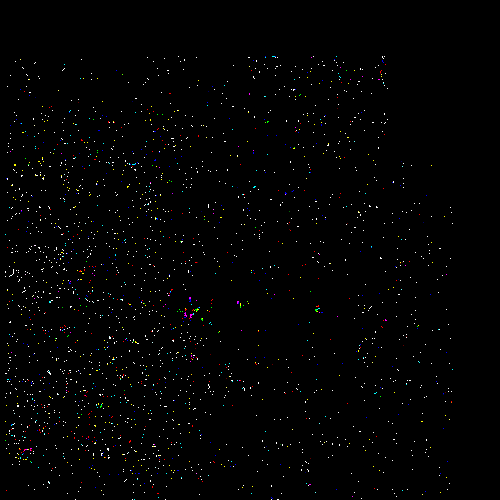
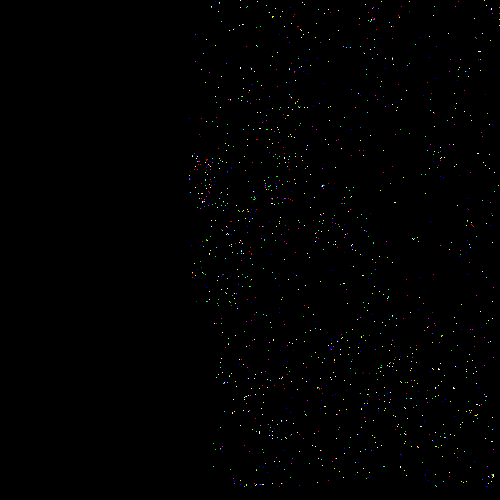
更新困难样本异常

diff --git a/hhattack.py b/hhattack.py
@@ -277,9 +277,12 @@ def attack_imgs(root_path, imgs, clean_path):
                     zero_iter = 0
                
             zero_iter += 1
-            if zero_iter >= 30:
+            if zero_iter >= 30 and last_state_attack_map is not None:
                 # 放大攻击的比例
                 attack_map = last_state_attack_map
+                zero_iter = 0
+            elif zero_iter >= 30 and last_state_attack_map is None:
+                # 保持攻击的比例
                 zero_iter = 0
             ############### 攻击结束 ###############
 
@@ -331,7 +334,7 @@ def attack_imgs(root_path, imgs, clean_path):
                 min_bbox_num = min(num, faster_rcnn_ori_bbox_num) + min(len(yolov4_boxes), yolov4_ori_bbox_num)
                 max_weight = faster_rcnn_weight + yolov4_weight
                 attack_image = img_copy
-            attack_rate = attack_map[attack_map==1].size / attack_map.size
+            attack_rate =  attack_map[attack_map==1].size / attack_map.size
             if is_break:
                 output_str = im + '当前{}/{}'.format(imgs.index(im), len(imgs)) + '次数{}'.format(attack_iter)+'最初：{}'.format(ori_bbox_num)+'当前最少：{}'.format(min_bbox_num)+'当前yolo:{}'.format(len(yolov4_boxes))+'当前faster rcnn:{}'.format(num)+"当前攻击比例:{}".format(attack_rate)+"当前inference为0"
             else:
@@ -367,5 +370,5 @@ if __name__ == '__main__':
     clean_path = './clean_data'
     imgs = os.listdir(root_path)
     imgs.sort()
-    imgs = ['008844.png']
+    imgs = ['4996.png']
     attack_imgs(root_path, imgs, clean_path)
